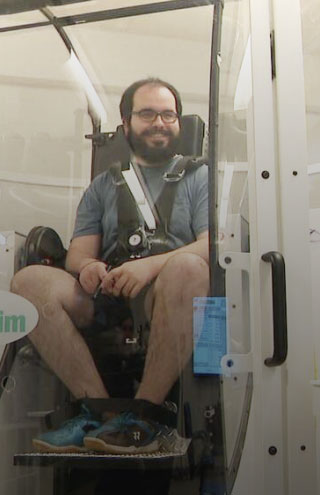
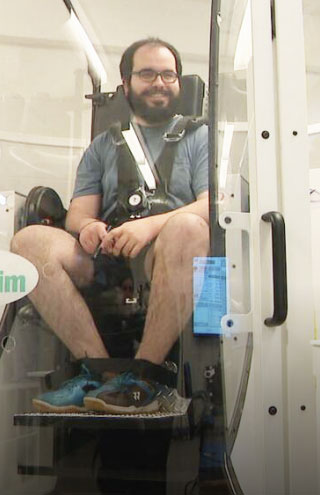
Update landing panel images and remove What is BrainMoove panel
- Replace 4 intro panel images with new versions (same filenames)
- Remove 'What is BrainMoove?' panel from IntroPage
- Widen remaining 4 panels to 295px (matching Who We Work With)
- Remove 'What is BrainMoove?' button from Banner nav

diff --git a/src/pages/IntroPage.jsx b/src/pages/IntroPage.jsx
@@ -3,14 +3,6 @@ import { ChevronRight } from 'lucide-react';
 
 const panels = [
   {
-    id: 'about',
-    prefix: 'What is ',
-    italicPart: 'BrainMoove?',
-    nav: 'about',
-    image: 'https://raw.githubusercontent.com/stevebutton/Brainmoov-React/main/src/WhatisBrainMoove.jpg',
-    desc: 'A specialized rehabilitation center bridging neuroscience and clinical care through eviden'
-  },
-  {
     id: 'who',
     prefix: 'Who We',
     italicPart: 'Work With',
@@ -90,7 +82,7 @@ export default function IntroPage({ showNav, isActive, hoveredSection, setHovere
                   onMouseLeave={() => setHoveredSection(null)}
                   onClick={() => handleNavigate(panel.nav)}
                   style={{
-                    width: '235px',
+                    width: '295px',
                     height: '340px',
                     backgroundColor: isHovered ? 'rgba(255,255,255,0.45)' : 'rgba(255,255,255,0.35)',
                     backdropFilter: 'blur(16px)',

diff --git a/src/components/Banner.jsx b/src/components/Banner.jsx
@@ -16,7 +16,6 @@ export default function Banner({ title, subtitle = null, showBanner, onLogoClick
           <div className="flex gap-2">
             {[
               ['intro', 'Home'],
-              ['about', 'What is BrainMoove?'],
               ['who-detail', 'Who We Work With'],
               ['what-detail', 'What We Treat'],
               ['about-infrastructure', 'Our Infrastructure'],
